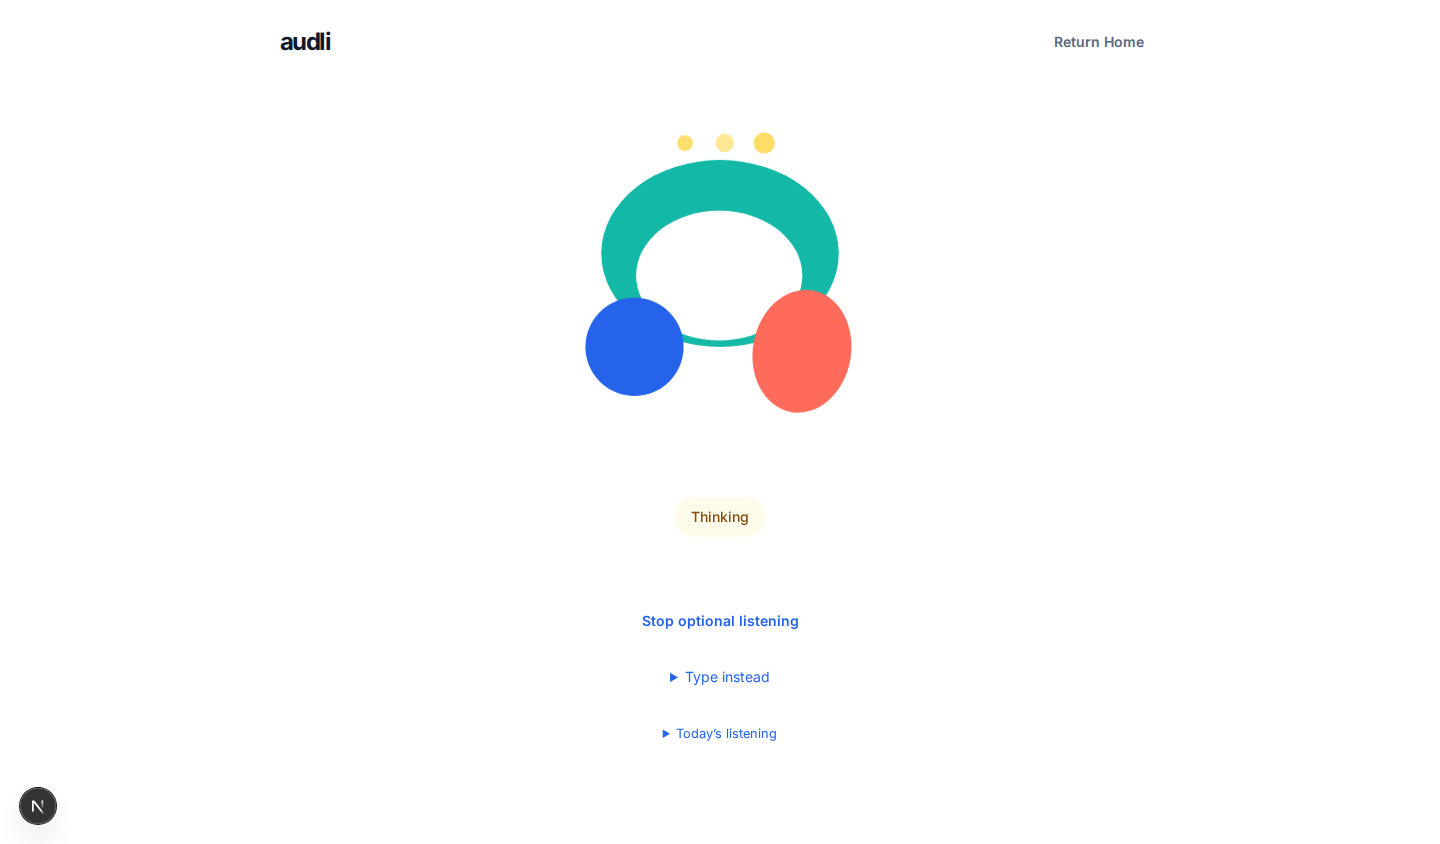
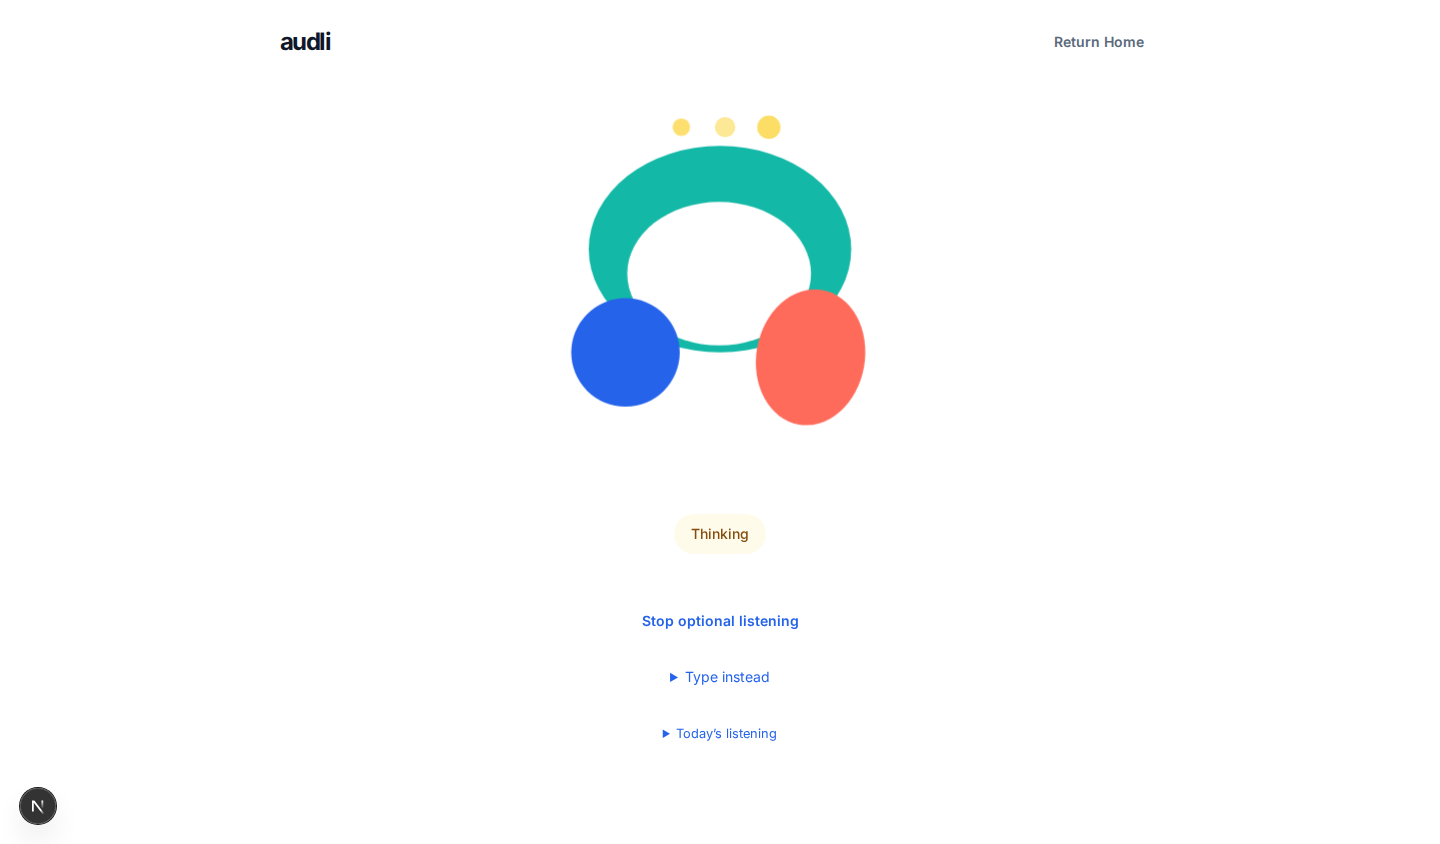
fix(AUD-62): retain original desktop Focus mascot scale

Changed region(s): [[0.375, 0.1232, 0.625, 0.5237], [0.4688, 0.3697, 0.5312, 0.4313], [0.4688, 0.5853, 0.5312, 0.6469]]

diff --git a/web/app/globals.css b/web/app/globals.css
@@ -381,7 +381,7 @@ main.audli-loading-screen { max-width: none; min-height: 100svh; margin: 0; bord
 .session-presence { flex: 1 0 auto; min-width: 0; transition: flex-grow .28s ease, min-height .28s ease, padding .28s ease; }
 .session-presence .audli-mascot { transition: width .28s ease, margin .28s ease; }
 .session-shell[data-layout="focus"] .session-presence { flex-grow: 1; min-height: clamp(240px, 48svh, 480px); }
-.session-shell[data-layout="focus"] .session-presence .audli-mascot { width: clamp(240px, 38vw, 380px); }
+.session-shell[data-layout="focus"] .session-presence .audli-mascot { width: clamp(240px, 38vw, 420px); }
 .session-shell[data-layout="interaction"] .session-presence { flex-grow: .4; min-height: clamp(180px, 32svh, 340px); padding-bottom: 0; }
 .session-shell[data-layout="interaction"] .session-presence .audli-mascot { width: clamp(190px, 30vw, 290px); margin-block: 16px 20px; }
 .session-shell[data-layout="content"] .session-presence { flex-grow: 0; min-height: clamp(140px, 24svh, 240px); padding-bottom: 0; }

diff --git a/web/classroom-safari.playwright.config.ts b/web/classroom-safari.playwright.config.ts
@@ -1,3 +1,3 @@
 import { defineConfig, devices } from '@playwright/test';
 import base from './playwright.config';
-export default defineConfig({ ...base, testMatch:'classroom-polish.spec.ts', use:{...devices['iPhone 13'],baseURL:'http://127.0.0.1:3100'}, projects:[{name:'webkit-iphone',use:{browserName:'webkit'}}] });
+export default defineConfig({ ...base, testMatch:'classroom-polish.spec.ts', outputDir:'test-results/webkit', use:{...devices['iPhone 13'],baseURL:'http://127.0.0.1:3100'}, projects:[{name:'webkit-iphone',use:{browserName:'webkit'}}] });
